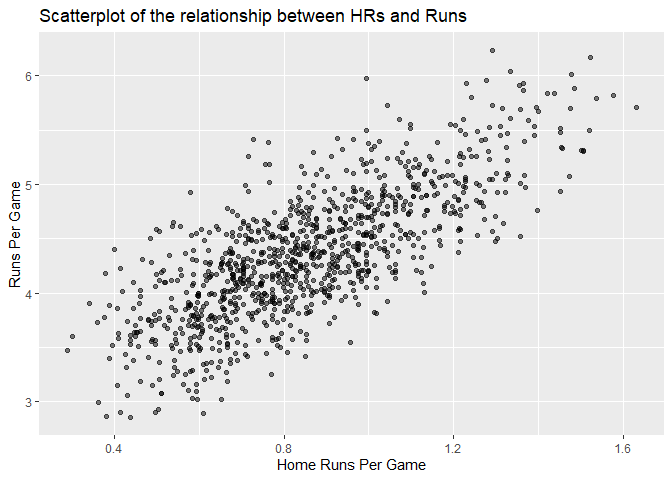
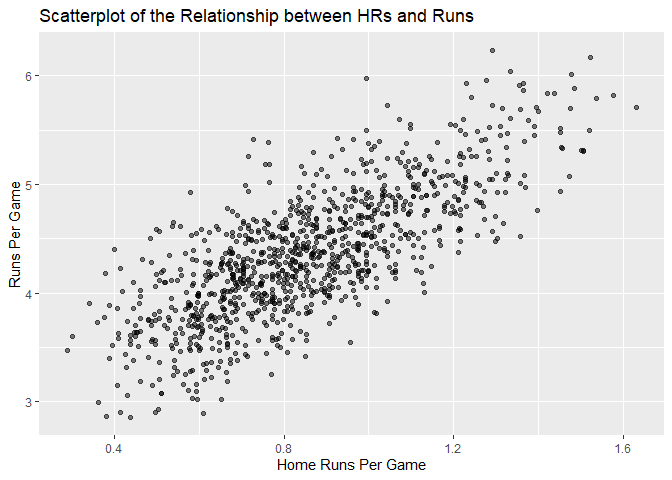
Fix typo in markdown report

Changed region(s): [[0.25, 0.0, 0.7188, 0.0625]]

diff --git a/sabermetrics/sabermetrics_markdown.md b/sabermetrics/sabermetrics_markdown.md
@@ -40,7 +40,7 @@ team_stats %>%
   mutate(HR_per_game = HR / G, R_per_game = R / G) %>%
   ggplot(aes(HR_per_game, R_per_game)) + 
   geom_point(alpha = 0.5) + 
-  ggtitle("Scatterplot of the relationship between HRs and Runs") +
+  ggtitle("Scatterplot of the Relationship between HRs and Runs") +
   xlab("Home Runs Per Game") + ylab("Runs Per Game")
 ```
 
@@ -51,8 +51,71 @@ team_stats %>%
   mutate(BB_per_game = BB / G, R_per_game = R / G) %>%
   ggplot(aes(BB_per_game, R_per_game)) + 
   geom_point(alpha = 0.5) + 
-  ggtitle("Scatterplot of the relationship between Bases on Balls and Runs") +
+  ggtitle("Scatterplot of the Relationship between Bases on Balls and Runs") +
   xlab("Bases on Balls Per Game") + ylab("Runs Per Game")
 ```
 
 ![](sabermetrics_markdown_files/figure-gfm/BB/R-1.png)<!-- -->
+
+``` r
+# Calculate correlation coefficient between runs per game and at bats per game
+team_stats %>% 
+  mutate(AB_per_game = AB / G, R_per_game = R / G) %>% 
+  summarize(r = cor(AB_per_game, R_per_game)) %>% pull(r)
+```
+
+    ## [1] 0.6580976
+
+We can see a relatively strong direct correlation between the number of
+runs and the number of at bats per game. This is also evident by the
+linearity of the graph. This makes perfect sense, as a team would
+obviously get more runs the more changes (at bats) they receive.
+
+``` r
+team_stats %>%
+  mutate(win_rate = W / G, E_per_game = E / G) %>%
+  ggplot(aes(win_rate, E_per_game)) + 
+  geom_point(alpha = 0.5) + 
+  ggtitle("Scatterplot of the relationship between Win Rate and Number of Fielding Errors") +
+  xlab("Wins Per Game") + ylab("Fielding Errors Per Game")
+```
+
+![](sabermetrics_markdown_files/figure-gfm/WR/FE-1.png)<!-- -->
+
+``` r
+# Calculate correlation coefficient between win rate and errors per game
+team_stats %>% 
+  mutate(win_rate = W / G, E_per_game = E / G) %>% 
+  summarize(r = cor(win_rate, E_per_game)) %>% pull(r)
+```
+
+    ## [1] -0.3396947
+
+We can see a weaker inverse correlation between the win rate and the
+number of fielding errors per game.
+
+``` r
+team_stats %>%
+  mutate(X3B_per_game = X3B / G, X2B_per_game = X2B / G) %>%
+  ggplot(aes(X3B_per_game, X2B_per_game)) + 
+  geom_point(alpha = 0.5) + 
+  ggtitle("Scatterplot of the relationship between Triples and Doubles") +
+  xlab("Wins Per Game") + ylab("Fielding Errors Per Game")
+```
+
+![](sabermetrics_markdown_files/figure-gfm/X3B/X2B-1.png)<!-- -->
+
+``` r
+# Calculate correlation coefficient between triples and doubles
+team_stats %>% 
+  mutate(X3B_per_game = X3B / G, X2B_per_game = X2B / G) %>% 
+  summarize(r = cor(X3B_per_game, X2B_per_game)) %>% pull(r)
+```
+
+    ## [1] -0.01157404
+
+We can see a very very weak inverse correlation between the number of
+triples and the number of doubles per game. Since this correlation
+coefficient is so close to 0, we may as well say there is no correlation
+in this relationship. This is also evident by the amount of scatter in
+the plot.
